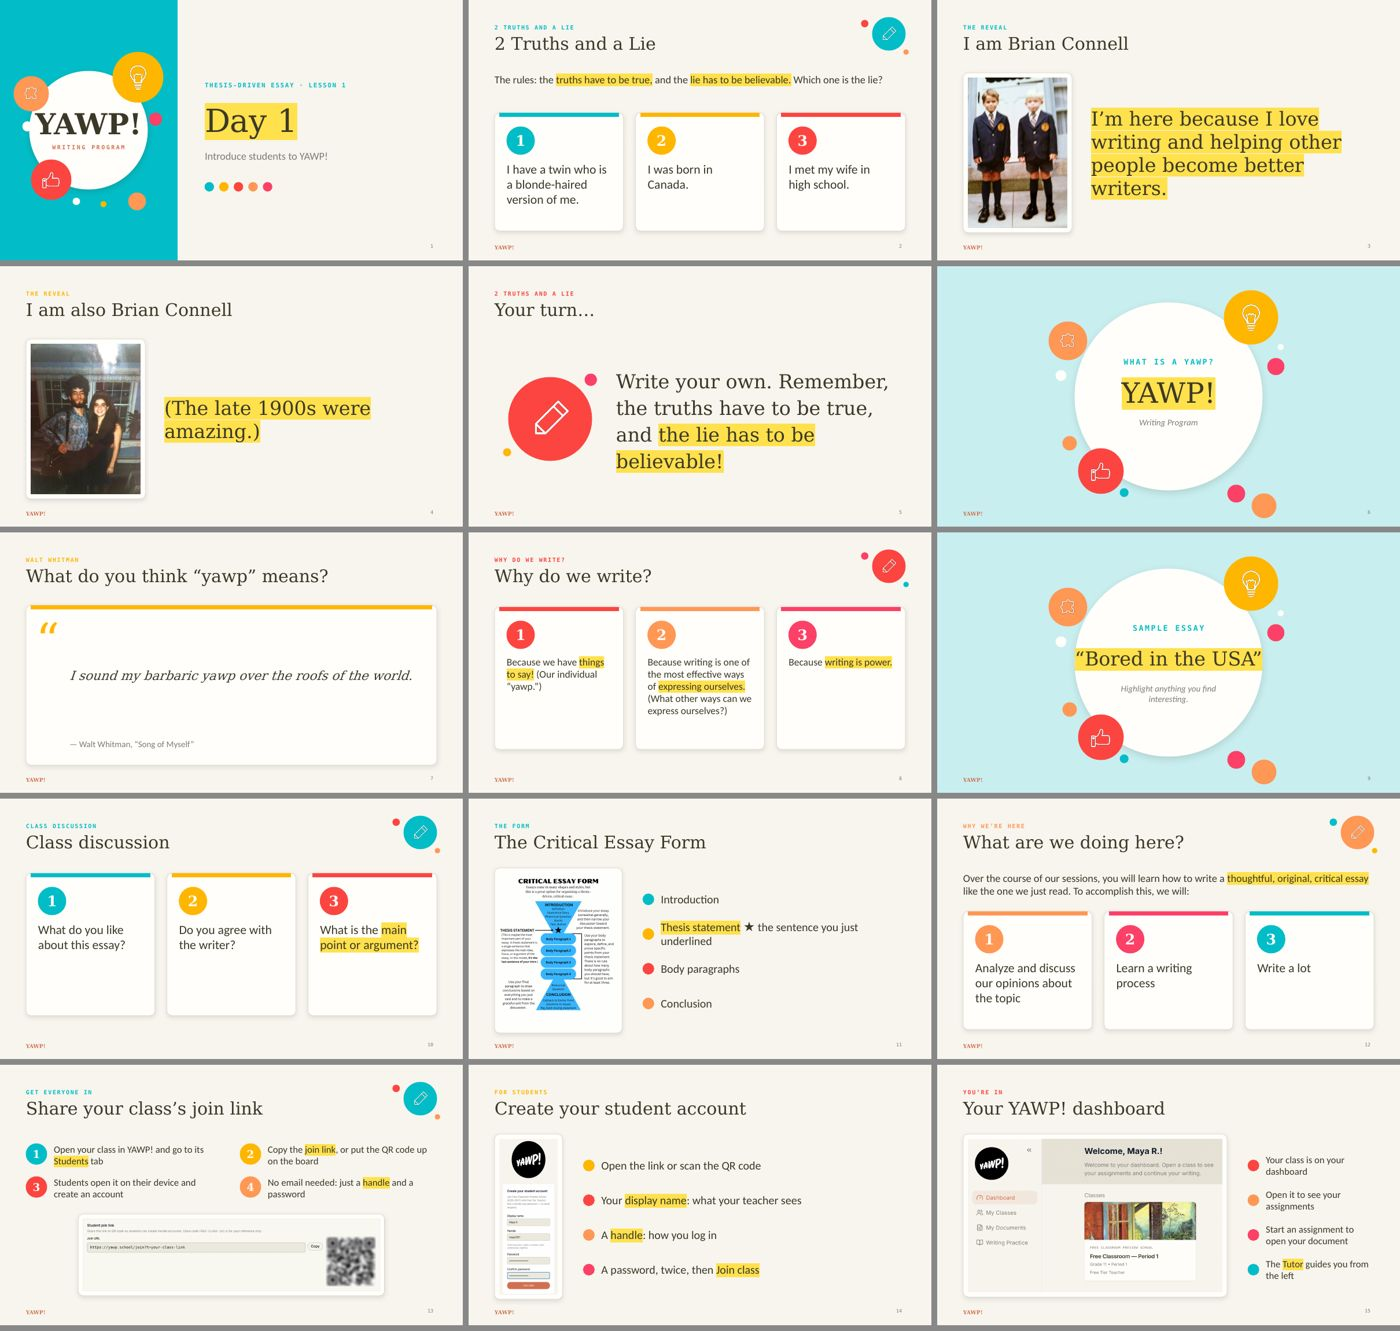
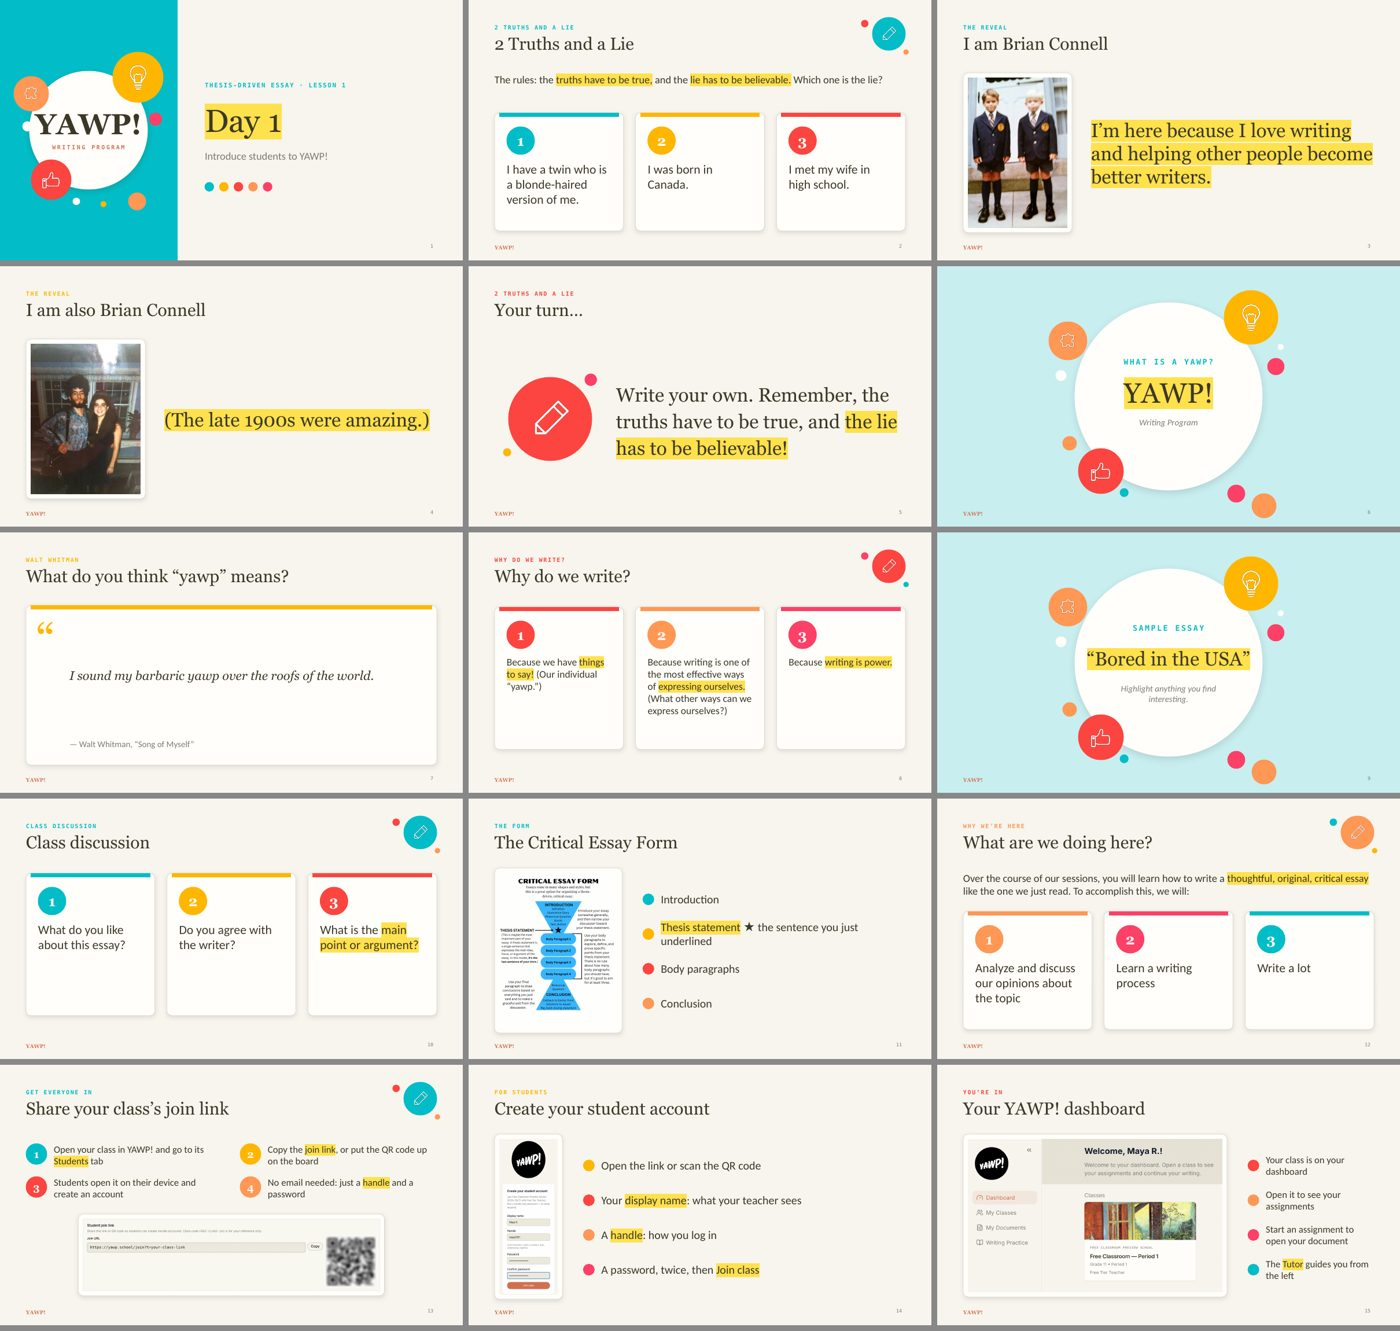
Thesis-Driven Essay docs: lesson plans, and previews rendered with Georgia
README lists each deck's lesson plan and the sign-up handout, and says
what changed from Brian's plans. PLAN records the decision. The previews
are re-rendered with Georgia installed, so they wrap as PowerPoint and
Google Slides do; Lesson 5 shows the reordered house analogy.

Claude-Session: https://claude.ai/code/session_01UdRZiPuGfgyCyhqFn7imqw

diff --git a/docs/decks/thesis-driven-essay/README.md b/docs/decks/thesis-driven-essay/README.md
@@ -15,31 +15,57 @@ New in every deck: speaker notes on every slide (from Brian's lesson plans and
 training videos), and current screenshots of the YAWP! app on that lesson's
 step.
 
-| Lesson | Deck | Slides | Preview |
-| --- | --- | ---: | --- |
-| 1 · Introduce Students to YAWP! | [`lesson-1-day-1.pptx`](../../../services/web-app/resources/thesis-essay-decks/lesson-1-day-1.pptx) | 15 | [preview](lesson-1-day-1-preview.jpg) |
-| 2 · Pre-Writing | [`lesson-2-pre-writing.pptx`](../../../services/web-app/resources/thesis-essay-decks/lesson-2-pre-writing.pptx) | 23 | [preview](lesson-2-pre-writing-preview.jpg) |
-| 3 · Thesis Statement | [`lesson-3-thesis-statement.pptx`](../../../services/web-app/resources/thesis-essay-decks/lesson-3-thesis-statement.pptx) | 45 | [preview](lesson-3-thesis-statement-preview.jpg) |
-| 4 · Introduction Paragraph | [`lesson-4-introduction.pptx`](../../../services/web-app/resources/thesis-essay-decks/lesson-4-introduction.pptx) | 24 | [preview](lesson-4-introduction-preview.jpg) |
-| 5 · Body Paragraphs | [`lesson-5-body-paragraphs.pptx`](../../../services/web-app/resources/thesis-essay-decks/lesson-5-body-paragraphs.pptx) | 25 | [preview](lesson-5-body-paragraphs-preview.jpg) |
-| 6 · Conclusion Paragraph | [`lesson-6-conclusion.pptx`](../../../services/web-app/resources/thesis-essay-decks/lesson-6-conclusion.pptx) | 28 | [preview](lesson-6-conclusion-preview.jpg) |
-| 7 · Titles and Formatting | [`lesson-7-titles.pptx`](../../../services/web-app/resources/thesis-essay-decks/lesson-7-titles.pptx) | 21 | [preview](lesson-7-titles-preview.jpg) |
+| Lesson | Deck | Slides | Preview | Lesson plan |
+| --- | --- | ---: | --- | --- |
+| 1 · Introduce Students to YAWP! | [`lesson-1-day-1.pptx`](../../../services/web-app/resources/thesis-essay-decks/lesson-1-day-1.pptx) | 15 | [preview](lesson-1-day-1-preview.jpg) | [`lesson-1-day-1-lesson-plan.pdf`](../../../services/web-app/resources/thesis-essay-decks/lesson-1-day-1-lesson-plan.pdf) (2 pp.) |
+| 2 · Pre-Writing | [`lesson-2-pre-writing.pptx`](../../../services/web-app/resources/thesis-essay-decks/lesson-2-pre-writing.pptx) | 23 | [preview](lesson-2-pre-writing-preview.jpg) | [`lesson-2-pre-writing-lesson-plan.pdf`](../../../services/web-app/resources/thesis-essay-decks/lesson-2-pre-writing-lesson-plan.pdf) (3 pp.) |
+| 3 · Thesis Statement | [`lesson-3-thesis-statement.pptx`](../../../services/web-app/resources/thesis-essay-decks/lesson-3-thesis-statement.pptx) | 45 | [preview](lesson-3-thesis-statement-preview.jpg) | [`lesson-3-thesis-statement-lesson-plan.pdf`](../../../services/web-app/resources/thesis-essay-decks/lesson-3-thesis-statement-lesson-plan.pdf) (3 pp.) |
+| 4 · Introduction Paragraph | [`lesson-4-introduction.pptx`](../../../services/web-app/resources/thesis-essay-decks/lesson-4-introduction.pptx) | 24 | [preview](lesson-4-introduction-preview.jpg) | [`lesson-4-introduction-lesson-plan.pdf`](../../../services/web-app/resources/thesis-essay-decks/lesson-4-introduction-lesson-plan.pdf) (2 pp.) |
+| 5 · Body Paragraphs | [`lesson-5-body-paragraphs.pptx`](../../../services/web-app/resources/thesis-essay-decks/lesson-5-body-paragraphs.pptx) | 25 | [preview](lesson-5-body-paragraphs-preview.jpg) | [`lesson-5-body-paragraphs-lesson-plan.pdf`](../../../services/web-app/resources/thesis-essay-decks/lesson-5-body-paragraphs-lesson-plan.pdf) (3 pp.) |
+| 6 · Conclusion Paragraph | [`lesson-6-conclusion.pptx`](../../../services/web-app/resources/thesis-essay-decks/lesson-6-conclusion.pptx) | 28 | [preview](lesson-6-conclusion-preview.jpg) | [`lesson-6-conclusion-lesson-plan.pdf`](../../../services/web-app/resources/thesis-essay-decks/lesson-6-conclusion-lesson-plan.pdf) (2 pp.) |
+| 7 · Titles and Formatting | [`lesson-7-titles.pptx`](../../../services/web-app/resources/thesis-essay-decks/lesson-7-titles.pptx) | 21 | [preview](lesson-7-titles-preview.jpg) | [`lesson-7-titles-lesson-plan.pdf`](../../../services/web-app/resources/thesis-essay-decks/lesson-7-titles-lesson-plan.pdf) (2 pp., new) |
 
 Slide counts include Brian's slides plus the new app screenshots (one per
 lesson; Lesson 1's sign-up screenshot became three slides of today's join
 flow). The plan and decisions behind them are in [PLAN.md](PLAN.md).
 
+## Lesson plans
+
+Each deck has a lesson plan that corresponds to it. They are Brian's lesson
+plan PDFs from the Teacher Training resources, in his words, and each step
+names the slides it uses ("Slides 3–5"). They change only where the decks
+did:
+
+- **Day 1:** onboarding is today's join flow (the class's join link or QR
+  code, then a handle and password), not the retired "Welcome to YAWP!"
+  course. It also tells teachers to make their own Two Truths reveal slides.
+- **Lessons 3–6:** the optional review quiz; Lesson 3 also covers the
+  optional "to be" section.
+- **Lessons 5–6:** the house analogy slides. In Lesson 5 the house analogy
+  now comes before the writing slide, as the plan has it.
+- **Lesson 7:** new. Brian wrote none, so it is written from his Lesson 7
+  video.
+
+[`student-sign-up.pdf`](../../../services/web-app/resources/thesis-essay-decks/student-sign-up.pdf) is a one-page
+handout for students on Day 1, replacing the old "Student Sign-up Process"
+PDF, which showed the teacher class-code flow.
+
+Plans name slides by title, so moving a slide renumbers the plan, and a test
+fails if a plan points at a slide that is not in its deck.
+
 ## In the app
 
 With the `thesis_essay_decks` flag on, the Thesis-Driven Essay's page offers
-each deck inside its step in **Modules** (Pre-writing → Lesson 2, Thesis
-Statement → Lesson 3, …), with Day 1's deck above the list. Teachers only;
-downloads come from `/api/thesis-essay-deck/:slug`. With the flag off the page
-is unchanged.
+each deck and its lesson plan inside its step in **Modules** (Pre-writing →
+Lesson 2, Thesis Statement → Lesson 3, …), with Day 1's deck, lesson plan and
+sign-up handout above the list. Teachers only; downloads come from
+`/api/thesis-essay-deck/:slug` (`<deck>`, `<deck>-lesson-plan`,
+`student-sign-up`). With the flag off the page is unchanged.
 
 ## Rebuilding
 
-The decks are generated, so edit the source, not the `.pptx`:
+The decks, lesson plans and handout are generated together, so edit the
+source, not the `.pptx` or `.pdf`:
 
 ```bash
 cd services/web-app
@@ -52,6 +78,8 @@ bun test scripts/thesis-essay-decks
 - Shared pieces (review quiz, conclusion structure, house analogy, sample essay):
   `shared-slides.ts`, `sample-essay.ts`
 - Layouts: `render-hybrid-deck.ts`; colours and fonts: `hybrid-theme.ts`
+- Lesson plans: `lesson-plans.ts`; their layout and the handout:
+  `render-lesson-plan.ts`
 - Images and icons: `assets/` (icons have SVG sources next to their PNGs)
 
 The decks are checked to open cleanly in PowerPoint as well as Google Slides.
@@ -59,5 +87,5 @@ pptxgenjs writes paragraph properties before every run of a paragraph, which
 PowerPoint "repairs" by scrambling the formatting, so `render-hybrid-deck.ts`
 keeps only the first; a test fails if a deck has the problem again.
 
-The previews are rendered with LibreOffice, which swaps Georgia for a wider
-serif, so lines wrap a little earlier there than in PowerPoint.
+The previews are rendered with LibreOffice, with Georgia installed, so lines
+wrap as they do in PowerPoint and Google Slides.

diff --git a/docs/decks/thesis-driven-essay/PLAN.md b/docs/decks/thesis-driven-essay/PLAN.md
@@ -273,6 +273,12 @@ quick once its questions are answered.
 6. **Put the decks in the module** (Kevin, later the same day): each deck
    now sits inside its step in the Thesis-Driven Essay's Modules, behind the
    `thesis_essay_decks` flag. Formatting of that section is still open.
+7. **Lesson plans that correspond to the decks** (Kevin, 2026-10-16): a
+   lesson plan PDF next to each deck in the Modules, Brian's plans with
+   slide numbers and only the changes the decks need; a new Lesson 7 plan
+   from the video; a new student sign-up handout; and the Body Paragraphs
+   house analogy moved before the writing slide to follow the plan. Teachers
+   use PowerPoint and Google Slides.
 
 ## Questions that were settled above
 
